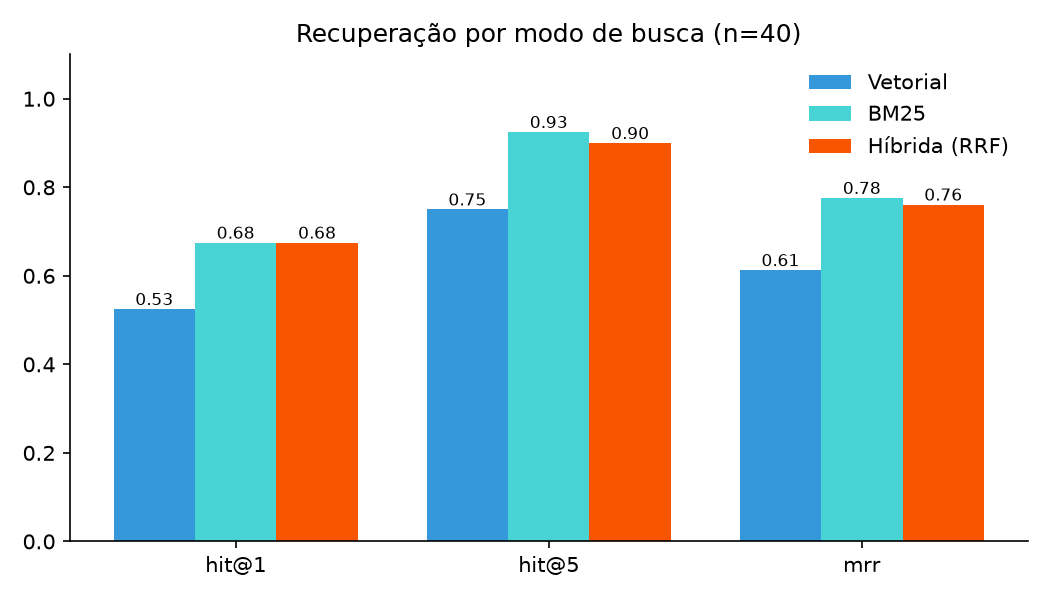
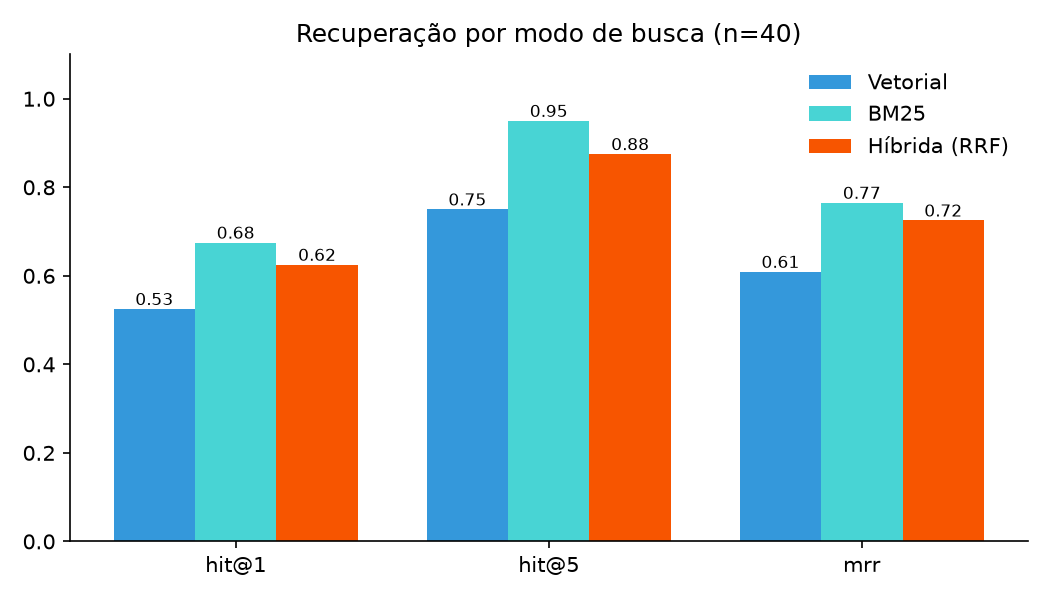
Ajusta trechos do RAG ao limite de tokens do modelo
Divide os documentos em ate 120 tokens para todo o texto entrar no embedding.
Adiciona reindexacao que preserva disciplinas, topicos, quizzes e respostas.
A avaliacao de busca passa a medir acerto por documento e pagina.

diff --git a/backend/app/ingest.py b/backend/app/ingest.py
@@ -6,13 +6,15 @@ geradas e as respostas possam citar a fonte exata.
 from __future__ import annotations
 
 import re
+from bisect import bisect_right
 from dataclasses import dataclass
 from pathlib import Path
 
 from pypdf import PdfReader
 from pptx import Presentation
 
-from .config import CHUNK_OVERLAP, CHUNK_SIZE
+from .config import CHUNK_OVERLAP_TOKENS, CHUNK_TOKENS
+from .store import store
 
 SUPPORTED = {".pdf", ".pptx", ".txt", ".md"}
 
@@ -59,29 +61,44 @@ def extract_pages(path: Path) -> list[Page]:
     raise ValueError(f"Formato não suportado: {ext}")
 
 
-def split_text(text: str, size: int = CHUNK_SIZE, overlap: int = CHUNK_OVERLAP) -> list[str]:
-    """Divide o texto em janelas de ~size caracteres, cortando preferencialmente
-    em quebras de parágrafo ou fim de frase, com sobreposição entre janelas."""
-    if len(text) <= size:
-        return [text] if text else []
-    pieces, start = [], 0
-    while start < len(text):
-        end = min(start + size, len(text))
-        if end < len(text):
-            window = text[start:end]
+def split_text(text: str, max_tokens: int = CHUNK_TOKENS, overlap: int = CHUNK_OVERLAP_TOKENS) -> list[str]:
+    """Divide o texto em janelas que cabem no modelo de embeddings, medidas em tokens.
+    Corta de preferência em fim de parágrafo ou frase, com sobreposição entre janelas."""
+    if not text:
+        return []
+    offsets = store.tokenizer.encode(text, add_special_tokens=False).offsets
+    total = len(offsets)
+    if total <= max_tokens:
+        return [text]
+
+    pieces: list[str] = []
+    start = 0
+    while start < total:
+        end = min(start + max_tokens, total)
+        if end < total:
+            begin = offsets[start][0]
+            window = text[begin:offsets[end - 1][1]]
             cut = max(window.rfind("\n\n"), window.rfind(". "), window.rfind("\n"))
-            if cut > size * 0.5:
-                end = start + cut + 1
-        piece = text[start:end].strip()
+            if cut > len(window) * 0.5:
+                limit = begin + cut + 1
+                end = max(start + 1, bisect_right([o[1] for o in offsets], limit, start, end))
+            else:
+                # sem fim de frase por perto: ao menos não corta no meio de uma palavra
+                back = end
+                while back > start + max_tokens // 2 and offsets[back][0] == offsets[back - 1][1]:
+                    back -= 1
+                if back > start + max_tokens // 2:
+                    end = back
+        piece = text[offsets[start][0]:offsets[end - 1][1]].strip()
         if piece:
             pieces.append(piece)
-        if end >= len(text):
+        if end >= total:
             break
-        start = max(end - overlap, start + 1)
+        next_start = max(end - overlap, start + 1)
         # começa o próximo trecho no início de uma palavra
-        space = text.find(" ", start, start + 40)
-        if space != -1:
-            start = space + 1
+        while next_start < end and not text[offsets[next_start][0] - 1].isspace():
+            next_start += 1
+        start = next_start
     return pieces
 
 

diff --git a/backend/reindex.py b/backend/reindex.py
@@ -1,0 +1,47 @@
+"""Refaz os trechos e embeddings de todos os documentos a partir dos arquivos originais.
+
+Disciplinas, tópicos, quizzes e respostas são preservados.
+Pare o backend antes: dois processos não devem gravar no ChromaDB ao mesmo tempo.
+
+Executar (dentro de backend/):  python reindex.py
+"""
+import socket
+import sys
+
+from app import db
+from app.config import UPLOAD_DIR
+from app.ingest import chunk_document
+from app.store import store
+
+
+def backend_running() -> bool:
+    with socket.socket() as s:
+        s.settimeout(0.5)
+        return s.connect_ex(("127.0.0.1", 8000)) == 0
+
+
+def main() -> None:
+    if backend_running():
+        sys.exit("O backend está rodando na porta 8000. Pare-o antes de reindexar.")
+    db.init_db()
+    docs = db.rows("SELECT id, course_id, name, filename FROM documents ORDER BY id")
+    missing = [d["name"] for d in docs if not (UPLOAD_DIR / d["filename"]).exists()]
+    if missing:
+        sys.exit(f"Arquivos originais ausentes, nada foi alterado: {missing}")
+
+    # divide tudo antes de apagar, para uma falha de leitura não deixar a base pela metade
+    planned = [(d, chunk_document(UPLOAD_DIR / d["filename"])) for d in docs]
+    empty = [d["name"] for d, chunks in planned if not chunks]
+    if empty:
+        sys.exit(f"Documentos sem texto, nada foi alterado: {empty}")
+
+    for d, chunks in planned:
+        store.delete_document(d["course_id"], d["id"])
+        store.add_chunks(d["course_id"], d["id"], d["name"], chunks)
+        db.execute("UPDATE documents SET chunks = ? WHERE id = ?", len(chunks), d["id"])
+        print(f"{d['name']}: {len(chunks)} trechos")
+    print(f"Total: {sum(len(c) for _, c in planned)} trechos em {len(planned)} documentos")
+
+
+if __name__ == "__main__":
+    main()

diff --git a/backend/eval/run_eval.py b/backend/eval/run_eval.py
@@ -43,7 +43,7 @@ class SyntheticQ(BaseModel):
 
 
 def retrieval_eval(course_id: int, samples: int, k: int) -> None:
-    ids, docs, _ = store.course_chunks(course_id)
+    ids, docs, metas = store.course_chunks(course_id)
     if not ids:
         raise SystemExit("Disciplina sem material.")
     cache = OUT / f"retrieval_set_course{course_id}.json"
@@ -57,7 +57,7 @@ def retrieval_eval(course_id: int, samples: int, k: int) -> None:
                 f"Trecho:\n{docs[i]}\n\nEscreva UMA pergunta que este trecho responde.",
                 SyntheticQ, max_tokens=1000, effort="low",
             )
-            dataset.append({"chunk_id": ids[i], "question": q.question})
+            dataset.append({"chunk_id": ids[i], "doc_id": metas[i]["doc_id"], "page": metas[i]["page"], "question": q.question})
             print(f"  + {q.question}")
         cache.write_text(json.dumps(dataset, ensure_ascii=False, indent=2), encoding="utf-8")
 
@@ -66,8 +66,10 @@ def retrieval_eval(course_id: int, samples: int, k: int) -> None:
     for mode in modes:
         hits1 = hitsk = rr = 0.0
         for item in dataset:
-            ranked = [h.id for h in store.search(course_id, item["question"], k=k, mode=mode)]
-            pos = ranked.index(item["chunk_id"]) + 1 if item["chunk_id"] in ranked else None
+            # acerto por documento e página: continua válido quando os trechos são refeitos
+            ranked = [(h.doc_id, h.page) for h in store.search(course_id, item["question"], k=k, mode=mode)]
+            gold = (item["doc_id"], item["page"])
+            pos = ranked.index(gold) + 1 if gold in ranked else None
             hits1 += pos == 1
             hitsk += pos is not None
             rr += 1 / pos if pos else 0

diff --git a/backend/app/store.py b/backend/app/store.py
@@ -16,6 +16,7 @@ from typing import Literal
 import chromadb
 from fastembed import TextEmbedding
 from rank_bm25 import BM25Okapi
+from tokenizers import Tokenizer
 
 from .config import CHROMA_DIR, EMBED_MODEL, TOP_K
 
@@ -54,6 +55,7 @@ class VectorStore:
             "materiais", metadata={"hnsw:space": "cosine"}
         )
         self._embedder: TextEmbedding | None = None
+        self._tokenizer: Tokenizer | None = None
         self._bm25_cache: dict[int, tuple[BM25Okapi, list[str], list[str], list[dict]]] = {}
         self._lock = threading.Lock()
 
@@ -63,6 +65,16 @@ class VectorStore:
         if self._embedder is None:
             self._embedder = TextEmbedding(model_name=EMBED_MODEL)
         return self._embedder
+
+    @property
+    def tokenizer(self) -> Tokenizer:
+        """Cópia do tokenizador do modelo, sem truncar, para medir os trechos em tokens."""
+        if self._tokenizer is None:
+            tok = Tokenizer.from_str(self.embedder.model.tokenizer.to_str())
+            tok.no_truncation()
+            tok.no_padding()
+            self._tokenizer = tok
+        return self._tokenizer
 
     def embed(self, texts: list[str]) -> list[list[float]]:
         return [v.tolist() for v in self.embedder.embed(texts)]

diff --git a/backend/tests/test_flow.py b/backend/tests/test_flow.py
@@ -47,6 +47,10 @@ def main():
     cid = db.execute("INSERT INTO courses (name, created_at) VALUES (?, ?)", "IA II", db.now())
     chunks = chunk_document(SAMPLE)
     assert len(chunks) >= 5, "o material deveria gerar vários trechos"
+    sizes = [len(store.tokenizer.encode(c.text).ids) for c in chunks]  # inclui os 2 tokens especiais
+    assert max(sizes) <= 128, f"trecho maior que o limite do modelo: {max(sizes)} tokens"
+    text = " ".join(c.text for c in chunks)
+    assert "Kohonen" in text and "Rosenblatt" in text, "a divisão não pode perder o início nem o fim do material"
     did = db.execute("INSERT INTO documents (course_id,name,filename,pages,chunks,created_at) VALUES (?,?,?,?,?,?)",
                      cid, SAMPLE.name, SAMPLE.name, 1, len(chunks), db.now())
     store.add_chunks(cid, did, SAMPLE.name, chunks)

diff --git a/backend/app/config.py b/backend/app/config.py
@@ -25,6 +25,7 @@ EMBED_MODEL = os.getenv(
 )
 
 # Parâmetros do RAG
-CHUNK_SIZE = int(os.getenv("CHUNK_SIZE", "900"))        # caracteres por trecho
-CHUNK_OVERLAP = int(os.getenv("CHUNK_OVERLAP", "150"))
+# O modelo de embeddings lê no máximo 128 tokens (2 são especiais): acima disso, o final é ignorado.
+CHUNK_TOKENS = int(os.getenv("CHUNK_TOKENS", "120"))
+CHUNK_OVERLAP_TOKENS = int(os.getenv("CHUNK_OVERLAP_TOKENS", "24"))
 TOP_K = int(os.getenv("TOP_K", "6"))

diff --git a/README.md b/README.md
@@ -191,23 +191,26 @@ Troque `--course 1` pelo id da disciplina avaliada.
 
 ### Resultados
 
-Avaliação feita em 21/11/2026 com o material real de IA II (12 PDFs, 558 trechos), usando o Claude Sonnet via Claude Code. Os arquivos brutos estão em `backend/eval/results/`.
+Avaliação feita em 21/11/2026 com o material real de IA II (12 PDFs), usando o Claude Sonnet via Claude Code. Os arquivos brutos estão em `backend/eval/results/`.
 
-**Recuperação (40 perguntas, top 5)**
+**Recuperação (40 perguntas, top 5, acerto por documento e página)**
 
-| Modo de busca | Hit@1 | Hit@5 | MRR |
-|---|---|---|---|
-| Vetorial | 52,5% | 75,0% | 0,613 |
-| BM25 | 67,5% | 92,5% | 0,776 |
-| Híbrida (RRF) | 67,5% | 90,0% | 0,761 |
+O modelo de embeddings lê no máximo 128 tokens. Com trechos de até 900 caracteres, 29% deles passavam desse limite e tinham o final ignorado no vetor. Os trechos passaram a ser medidos em tokens (até 120), e a disciplina foi de 558 para 681 trechos.
+
+| Modo de busca | Hit@1 antes | Hit@1 depois | Hit@5 antes | Hit@5 depois | MRR antes | MRR depois |
+|---|---|---|---|---|---|---|
+| Vetorial | 52,5% | 52,5% | 77,5% | 75,0% | 0,618 | 0,609 |
+| BM25 | 67,5% | 67,5% | 92,5% | 95,0% | 0,776 | 0,765 |
+| Híbrida (RRF, usada no app) | 67,5% | 62,5% | 90,0% | 87,5% | 0,761 | 0,725 |
 
 ![Recuperação por modo de busca](backend/eval/results/retrieval.png)
 
-- A busca só vetorial ficou claramente atrás neste material.
-- BM25 e híbrida ficaram praticamente empatados: a diferença no Hit@5 é de uma pergunta em 40, pequena demais para apontar um vencedor.
-- **Limitação:** as perguntas foram escritas pelo LLM a partir dos próprios trechos, o que tende a repetir palavras do texto e favorecer o BM25. Perguntas reais de alunos podem mudar esse resultado.
+- A correção garante que todo o texto entre no vetor, mas **não melhorou as métricas**. As variações equivalem a no máximo 2 perguntas em 40, pequenas demais para concluir melhora ou piora.
+- A busca só vetorial segue atrás, e o corte dos trechos longos não explica essa diferença.
+- BM25 e híbrida ficaram próximos, sem amostra suficiente para apontar um vencedor.
+- **Limitações:** as perguntas foram escritas pelo LLM a partir dos trechos antigos, o que pode favorecer a divisão anterior e o BM25, por repetir palavras do texto. Perguntas reais de alunos podem mudar esse resultado.
 
-**Qualidade das questões (20 questões, 4 quizzes)**
+**Qualidade das questões (20 questões, 4 quizzes, medida antes da nova divisão em trechos)**
 
 | Critério | Resultado |
 |---|---|
